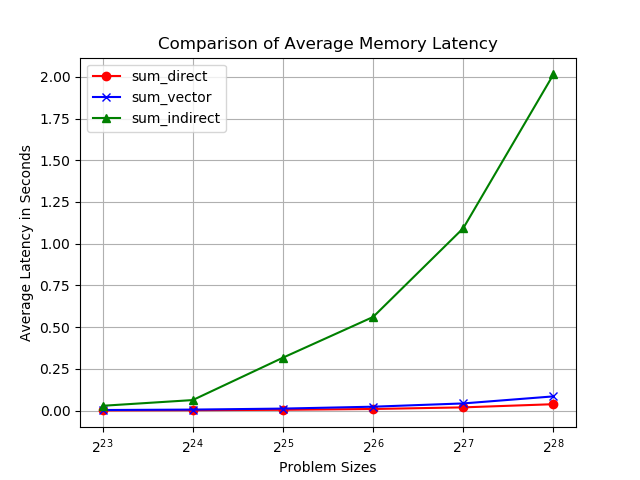
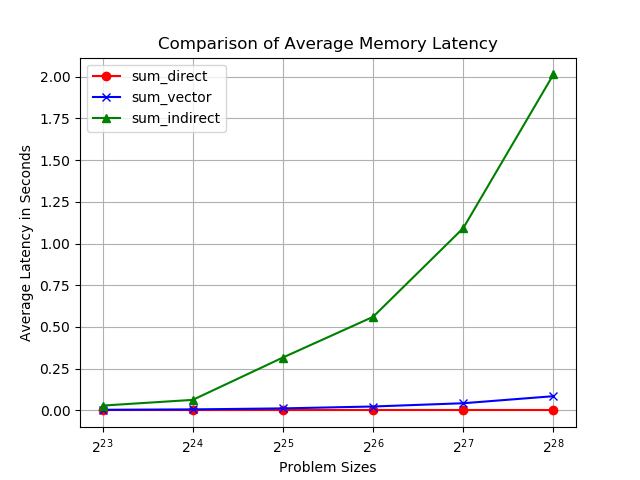
updated latency graph to be correct for direct sum

diff --git a/plot_latency.py b/plot_latency.py
@@ -22,6 +22,8 @@ import matplotlib.pyplot as plt
 
 def compute_latency(data, nAccesses):
     if nAccesses == 0:
+        for i, d in enumerate(data):
+            data[i] = 0
         return data
 
     for i, time in enumerate(data):
